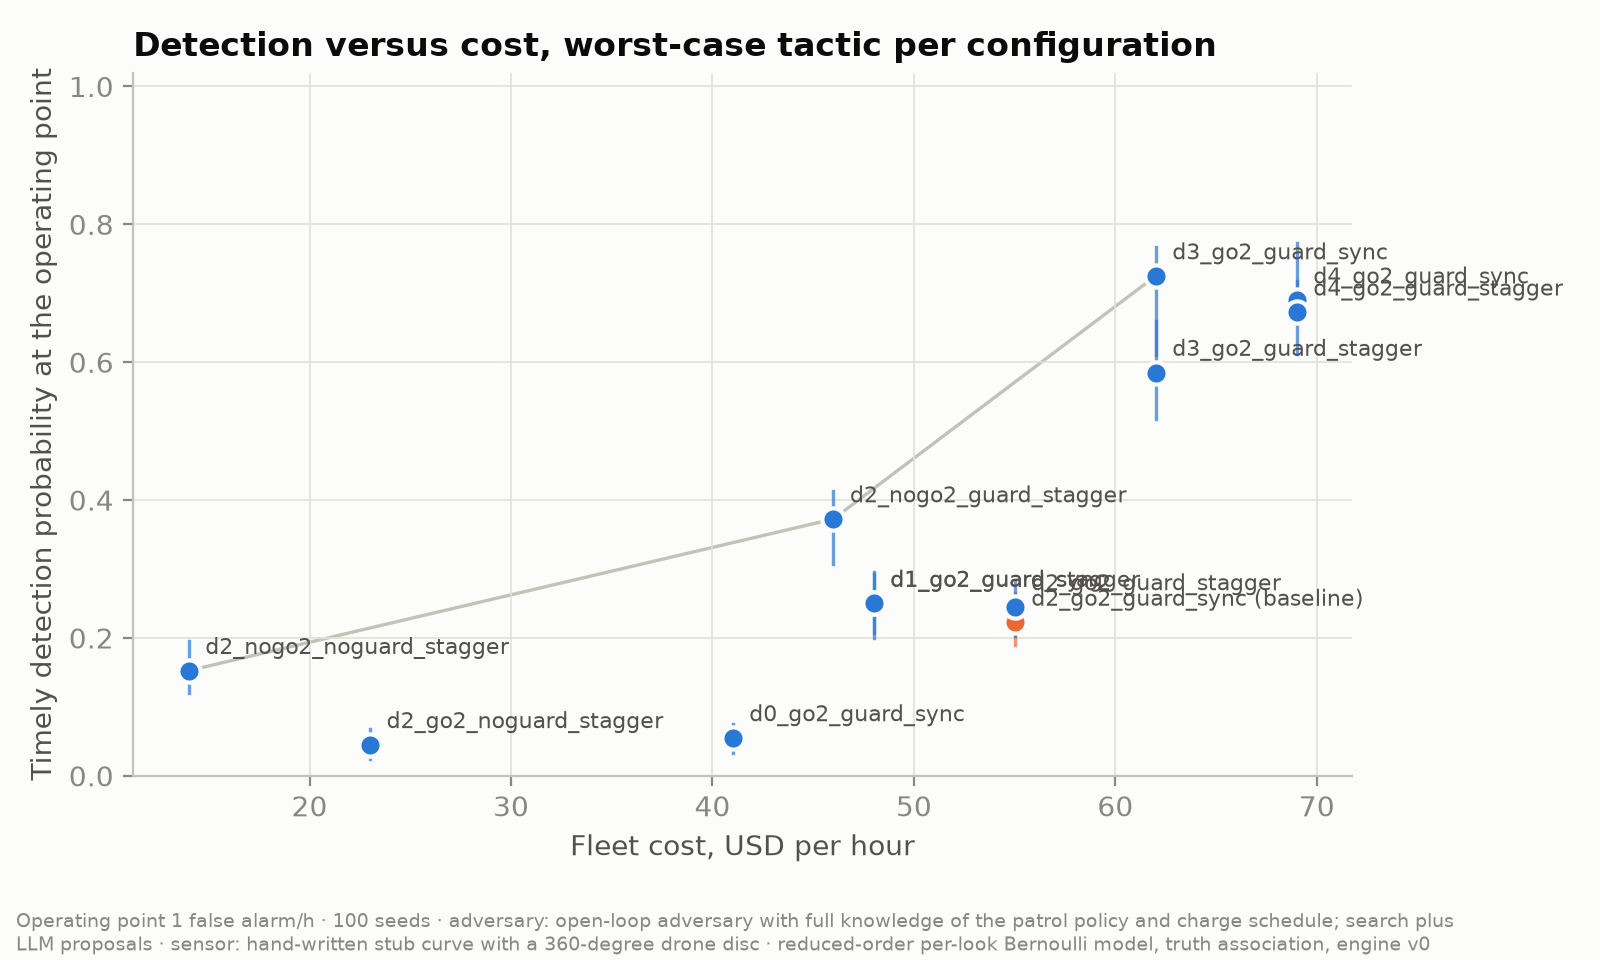
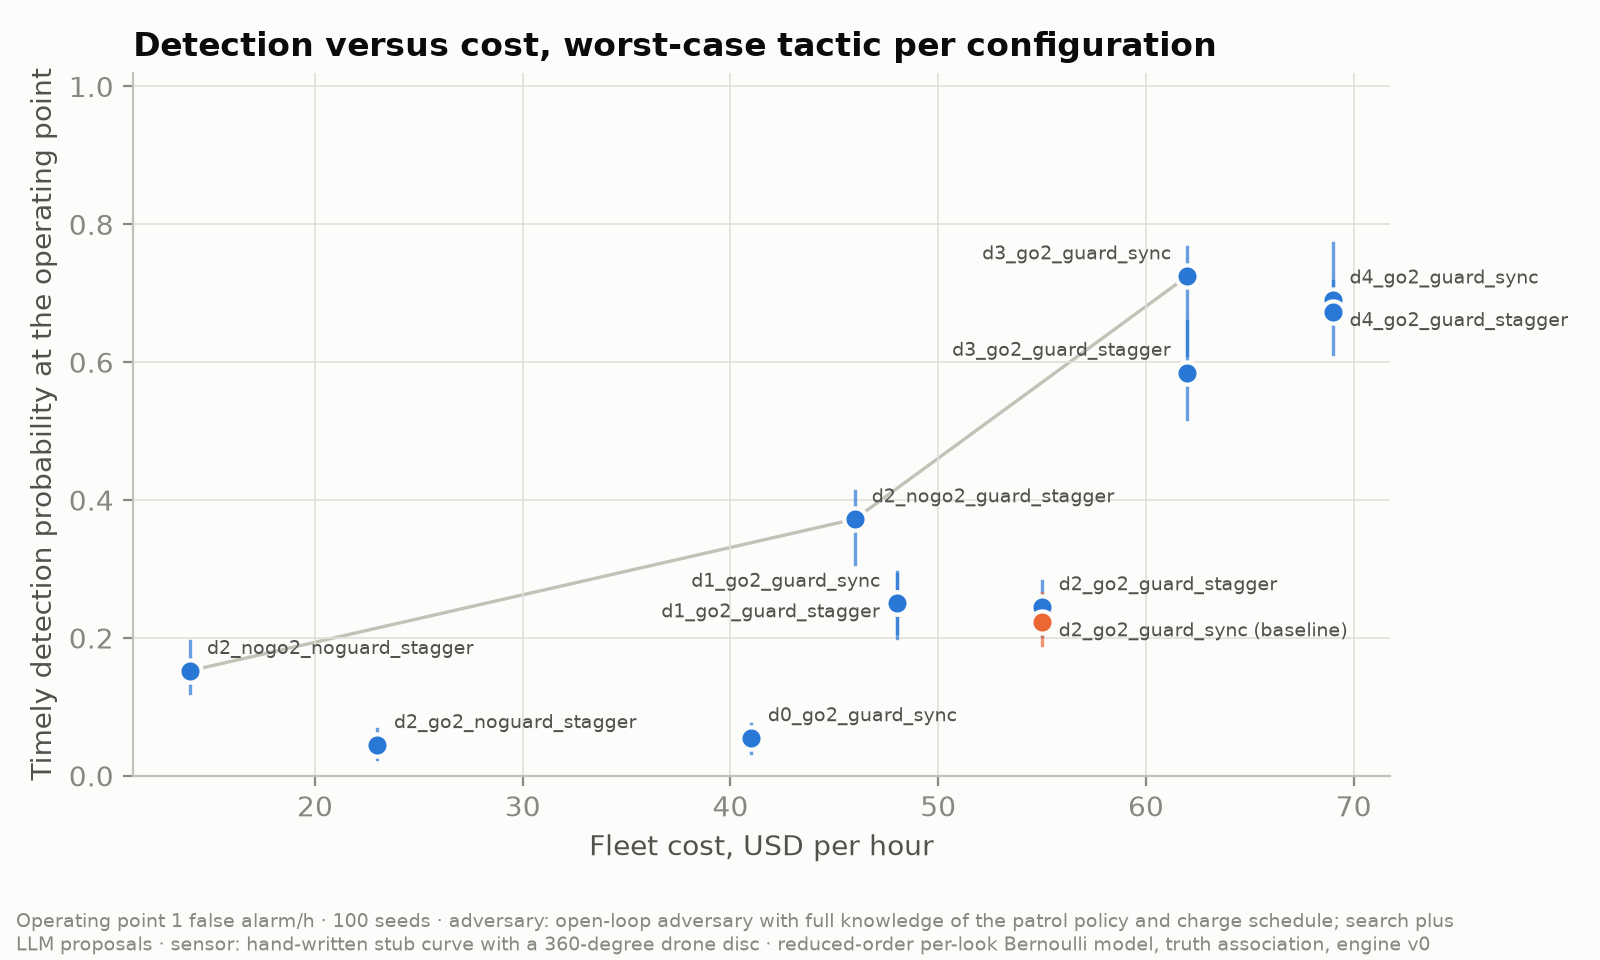
feat(pitch): label placement on the cost chart; unchanged metrics marked; deck rebuilt

diff --git a/pitch/make_charts.py b/pitch/make_charts.py
@@ -80,33 +80,29 @@ def chart_cost_vs_detection(r: Report, p: Palette, out: Path, numbers: dict) -> 
         linewidth=1.2,
         zorder=1,
     )
-    for c in r.configs:
+    placed: list[tuple[float, float]] = []
+    pts = [(c.cost_per_hour, c.pd_at_operating_point) for c in r.configs]
+    xspan = (max(x for x, _ in pts) - min(x for x, _ in pts)) or 1.0
+    for c in sorted(r.configs, key=lambda c: (c.cost_per_hour, -c.pd_at_operating_point)):
         base = c.config_name == r.baseline_config
         color = p.series[1] if base else p.series[0]
         lo, hi = c.pd_at_operating_point_ci
-        ax.plot(
-            [c.cost_per_hour, c.cost_per_hour],
-            [lo, hi],
-            color=color,
-            linewidth=1.2,
-            alpha=0.7,
-            zorder=2,
-        )
-        ax.scatter(
-            [c.cost_per_hour],
-            [c.pd_at_operating_point],
-            s=64,
-            color=color,
-            edgecolor=p.surface,
-            linewidth=1.5,
-            zorder=3,
-        )
+        x, y = c.cost_per_hour, c.pd_at_operating_point
+        ax.plot([x, x], [lo, hi], color=color, linewidth=1.2, alpha=0.7, zorder=2)
+        ax.scatter([x], [y], s=64, color=color, edgecolor=p.surface, linewidth=1.5, zorder=3)
+        crowded_right = any(0 < (ox - x) / xspan < 0.3 and abs(oy - y) < 0.1 for ox, oy in pts)
+        dy = 6.0
+        for px, py in placed:
+            if abs(px - x) / xspan < 0.12 and abs(py - y) < 0.06:
+                dy -= 11.0
+        placed.append((x, y))
         ax.annotate(
             c.config_name + (" (baseline)" if base else ""),
-            (c.cost_per_hour, c.pd_at_operating_point),
-            xytext=(6, 6),
+            (x, y),
+            xytext=(-6 if crowded_right else 6, dy),
             textcoords="offset points",
-            fontsize=8,
+            ha="right" if crowded_right else "left",
+            fontsize=7,
             color=p.ink_secondary,
         )
     ax.set_xlabel("Fleet cost, USD per hour")
@@ -386,12 +382,13 @@ def chart_before_after(r: Report, fixed: str | None, p: Palette, out: Path, numb
                 fontsize=8,
                 color=p.ink,
             )
-        improved = (a > b) if higher_is_better else (a < b)
-        ax.set_title(
-            f"{name}\n{'better' if improved else 'worse'}",
-            fontsize=8,
-            color=p.good if improved else p.critical,
-        )
+        if a == b:
+            verdict, color = ("not measured yet" if a == 0 else "unchanged"), p.muted
+        elif (a > b) if higher_is_better else (a < b):
+            verdict, color = "better", p.good
+        else:
+            verdict, color = "worse", p.critical
+        ax.set_title(f"{name}\n{verdict}", fontsize=8, color=color)
         ax.set_xticks([0, 1], [base.config_name, after.config_name], fontsize=7)
         ax.set_xlim(-0.4, 1.4)
         ax.margins(y=0.3)
